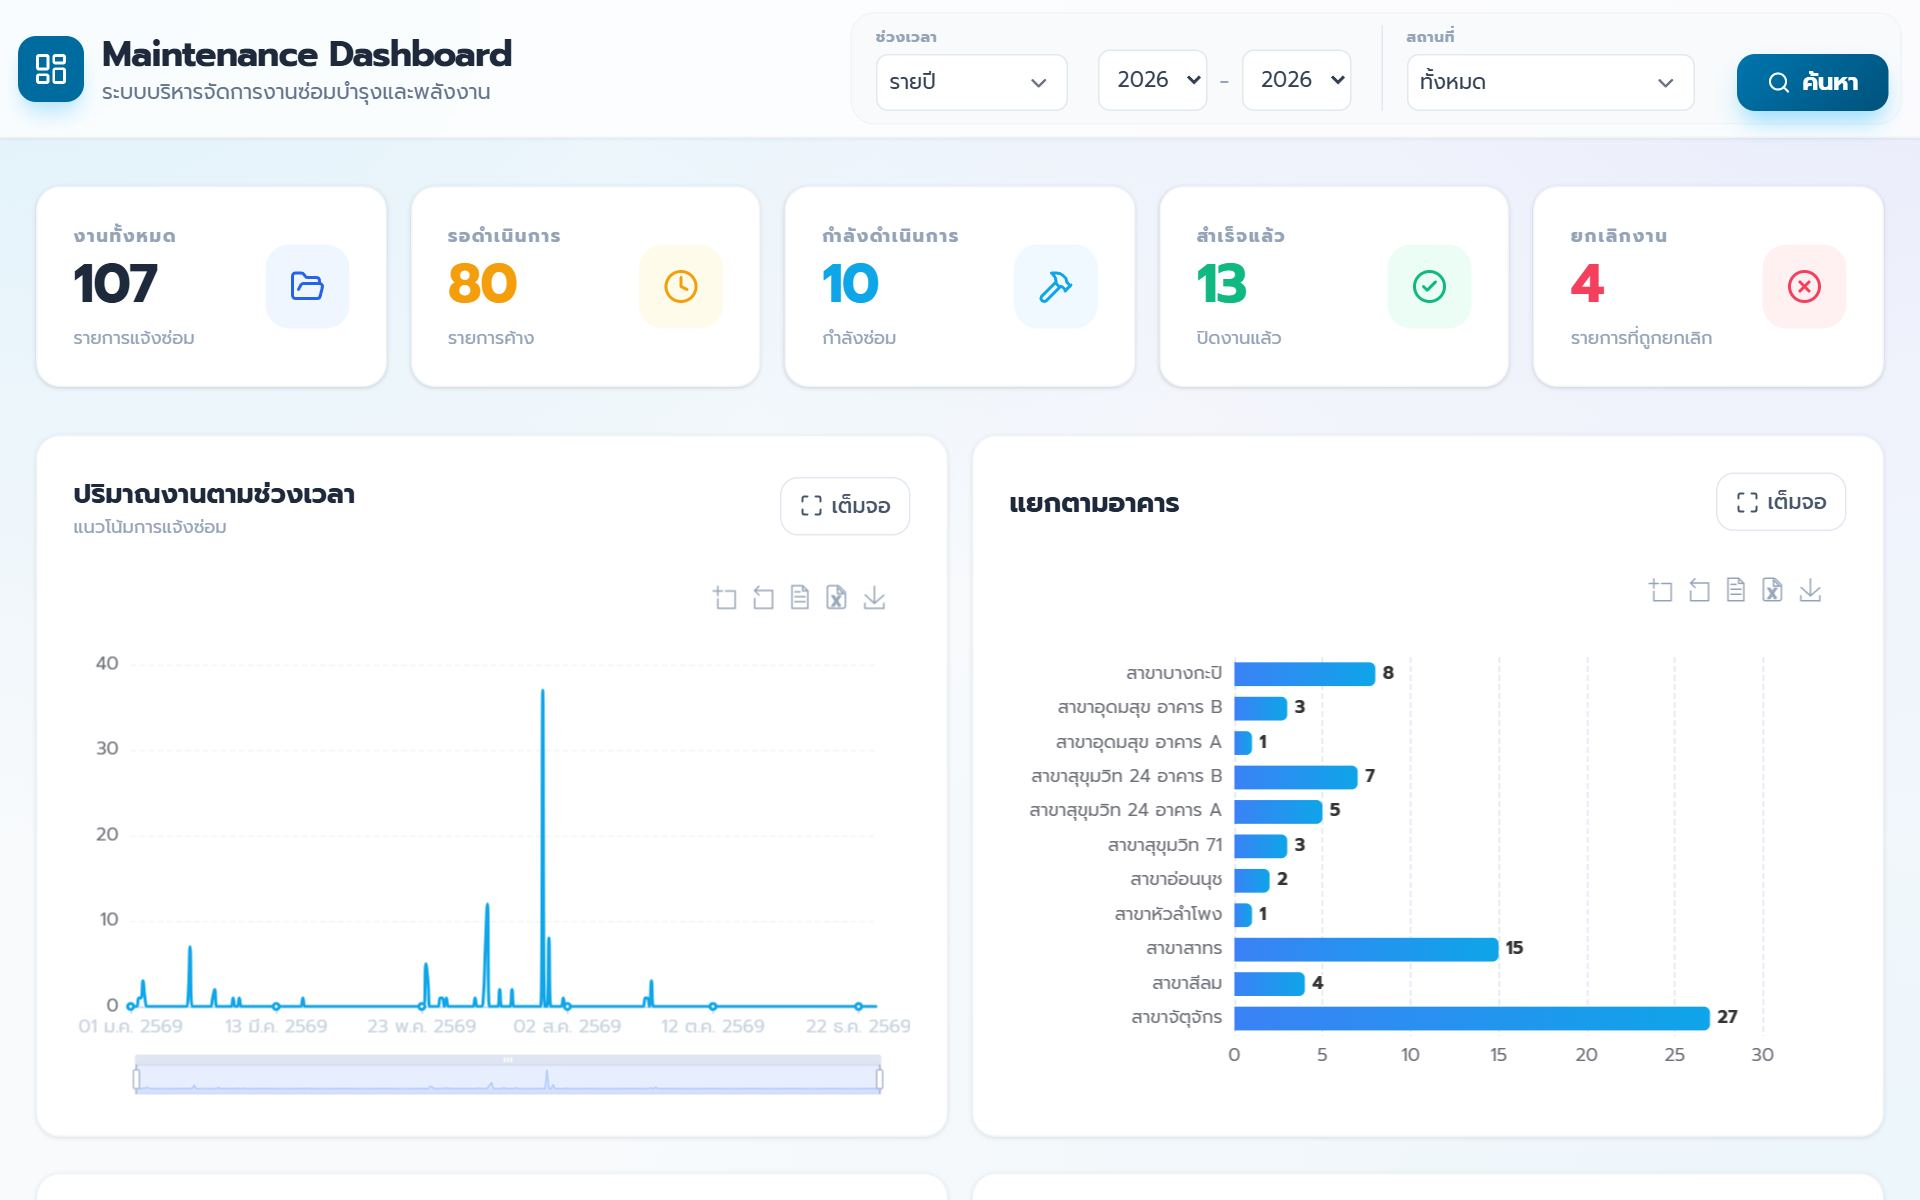
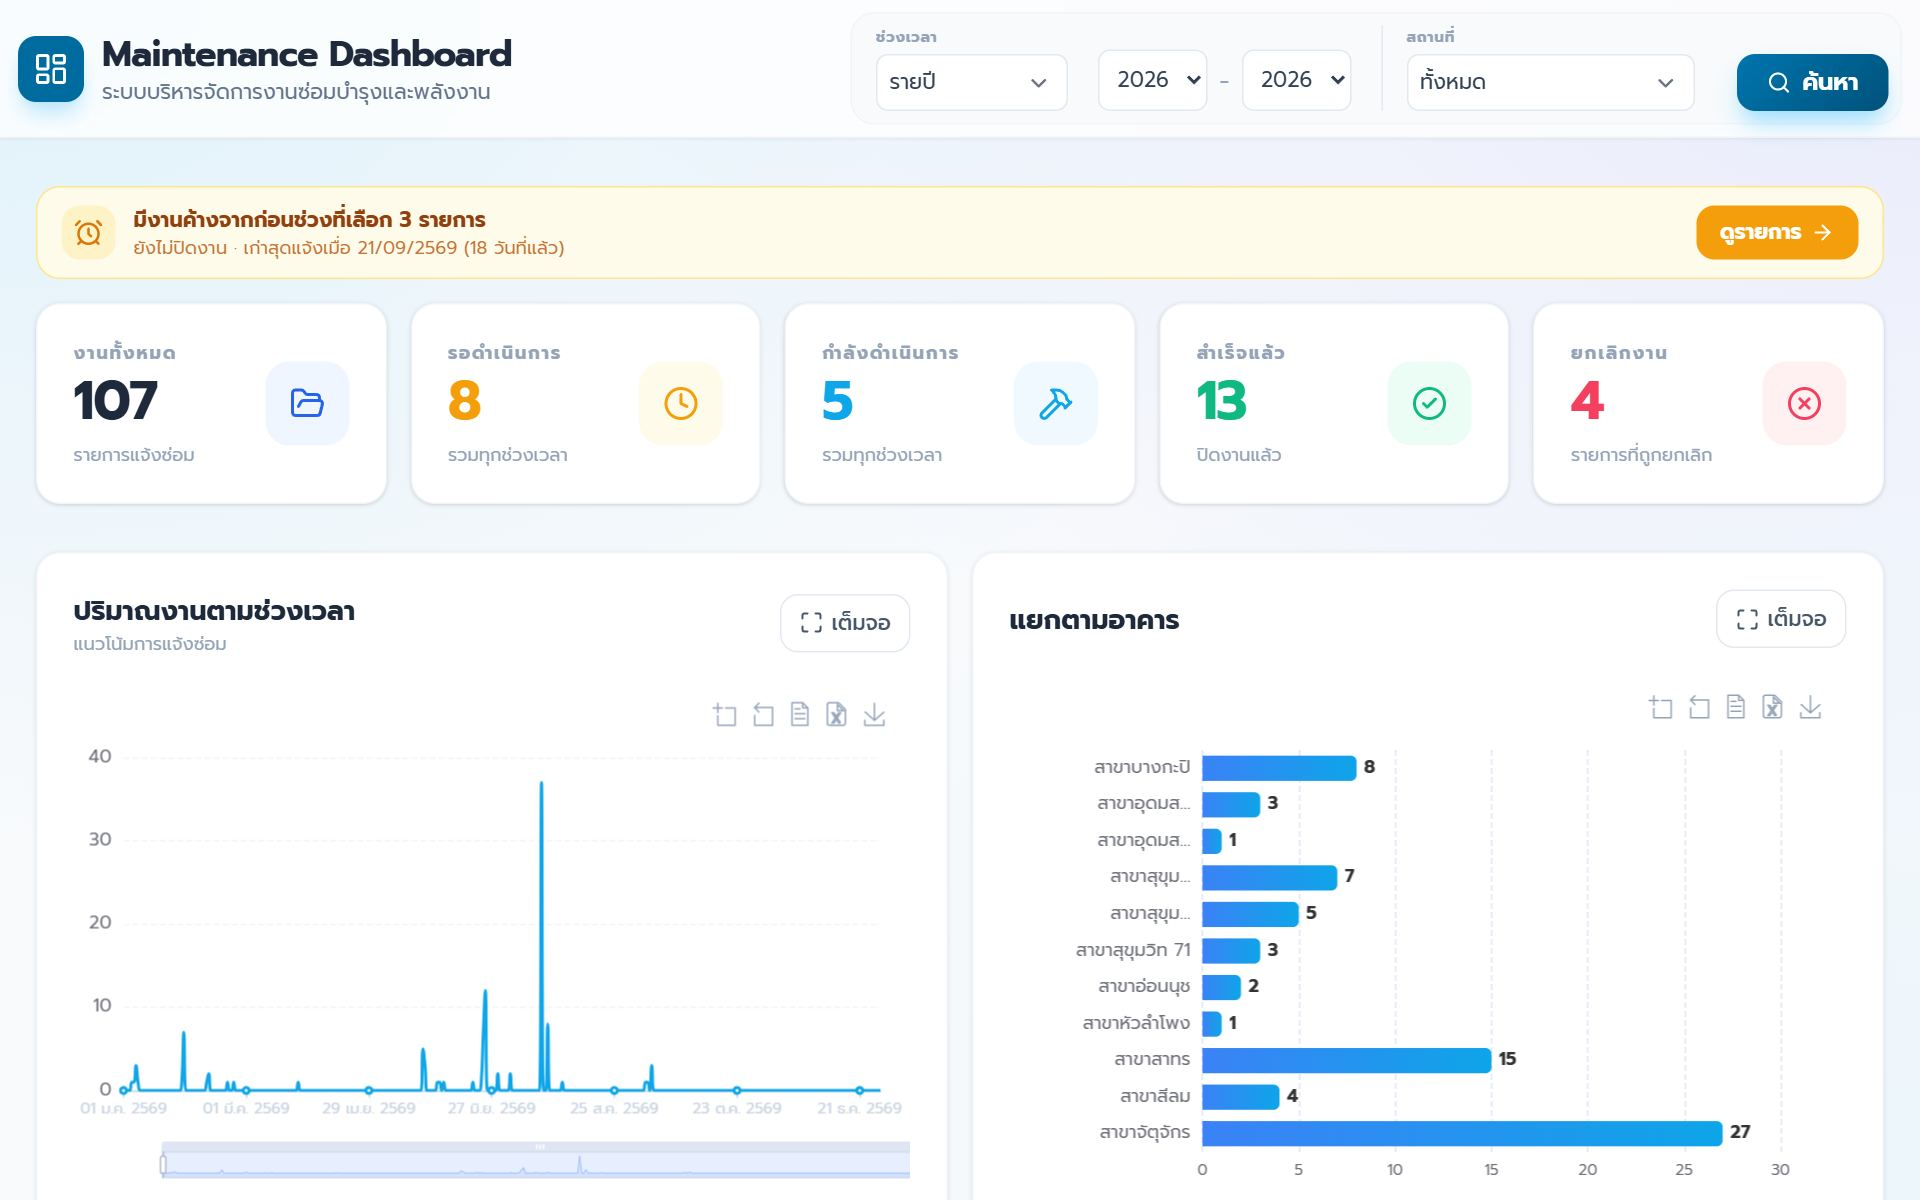
ปรับคู่มือหน้าหลัก (Dashboard)

diff --git a/tutorial.php b/tutorial.php
@@ -254,9 +254,11 @@ const MODULES = [
             { m: 2, t: '<b>ช่วงวันที่</b> — กำหนดวันเริ่มต้นและวันสิ้นสุดของข้อมูล' },
             { m: 3, t: '<b>สถานที่</b> — เลือกอาคาร/สาขา หรือดูทั้งหมด' },
             { m: 4, t: 'กด <span class="kbd">ค้นหา</span> เพื่อแสดงข้อมูลตามตัวเลือก' },
-            { m: 5, t: '<b>การ์ดสรุป</b> — จำนวนงานทั้งหมด รอดำเนินการ กำลังดำเนินการ สำเร็จแล้ว และยกเลิก' },
-            { m: 6, t: '<b>กราฟ</b> — แนวโน้มงานและงานแยกตามอาคาร กด <span class="kbd">เต็มจอ</span> เพื่อดูกราฟขนาดใหญ่' }
-        ] }]
+            { m: 5, t: '<b>แถบเตือนงานค้าง</b> (สีส้ม) — ขึ้นเมื่อมีงานที่แจ้ง<b>ก่อนช่วงวันที่ที่เลือก</b>แต่ยังไม่ปิด เช่น แจ้ง 31 ม.ค. แต่วันนี้ดูเดือน ก.พ. บอกจำนวนและวันที่ของงานที่ค้างนานที่สุด กด <span class="kbd">ดูรายการ</span> เพื่อเปิดงานค้างทั้งหมด' },
+            { m: 6, t: '<b>การ์ดสรุป</b> — งานทั้งหมด สำเร็จแล้ว และยกเลิก นับตามช่วงวันที่ที่เลือก ส่วน <b>รอดำเนินการ / กำลังดำเนินการ</b> นับงานที่ยังไม่ปิด<b>ทั้งหมด</b> ไม่ว่าจะแจ้งเมื่อไหร่ — กดการ์ดเพื่อเปิดรายการ' },
+            { m: 7, t: '<b>กราฟ</b> — แนวโน้มงานและงานแยกตามอาคาร กด <span class="kbd">เต็มจอ</span> เพื่อดูกราฟขนาดใหญ่' }
+        ] }],
+        tips: ['ขึ้นเดือนใหม่แล้วงานเดือนก่อนที่ยังไม่ปิดจะ<b>ไม่หายไป</b> — ยังนับอยู่ในการ์ดรอดำเนินการ / กำลังดำเนินการ และแสดงในแถบเตือนสีส้มจนกว่าจะปิดงาน']
     },
     {
         id: 'notifications', title: 'การแจ้งเตือน', perm: null, href: 'notifications.php',
@@ -329,7 +331,7 @@ const MODULES = [
             ['<span class="inline-block w-2.5 h-2.5 rounded-full bg-emerald-500 mr-1.5"></span>ประเมินแล้ว', 'ผู้แจ้งประเมินความพึงพอใจแล้ว'],
             ['<span class="inline-block w-2.5 h-2.5 rounded-full bg-rose-500 mr-1.5"></span>ยกเลิก', 'ใบงานถูกยกเลิก']
         ] },
-        tips: ['กดปุ่มกรอง ▾ บนหัวคอลัมน์ เพื่อกรองเฉพาะอาคาร ชั้น หรือสถานะที่ต้องการ']
+        tips: ['กดปุ่มกรอง ▾ บนหัวคอลัมน์ เพื่อกรองเฉพาะอาคาร ชั้น หรือสถานะที่ต้องการ', 'บนมือถือ เลือกชิป <b>งานค้าง</b> ด้านบนรายการ เพื่อดูเฉพาะงานที่รอดำเนินการและกำลังดำเนินการ']
     },
     {
         id: 'repair_job', title: 'รับงานและปิดงานซ่อม (สำหรับช่าง)', perm: 'repair_data', href: 'maintenance_info.php',
@@ -740,6 +742,7 @@ const FAQ = [
     ['ทั่วไป', 'ใช้บนมือถือได้ไหม', 'ได้ทุกเมนู หน้าจอปรับตามขนาดอัตโนมัติ และเข้าสู่ระบบด้วยการสแกน QR Code ได้', 'qr_login'],
     ['แจ้งซ่อม', 'แนบรูปหรือวิดีโอไม่ได้', 'รูปแนบได้สูงสุด 5 รูป (JPG / PNG / WEBP) วิดีโอ 1 คลิป ไม่เกิน 30 วินาที — คลิปยาวให้ตัดช่วงก่อนส่ง', 'repair'],
     ['แจ้งซ่อม', 'แจ้งซ่อมแล้ว จะรู้ได้อย่างไรว่าช่างรับงานแล้ว', 'ดูสถานะในเมนูข้อมูลแจ้งซ่อม: รอดำเนินการ → กำลังดำเนินการ (ช่างรับงานแล้ว) → เสร็จสิ้น', 'repair_list'],
+    ['แจ้งซ่อม', 'ขึ้นเดือนใหม่แล้ว งานเดือนก่อนที่ยังไม่เสร็จหายไปไหม', 'ไม่หาย — การ์ดรอดำเนินการ / กำลังดำเนินการในหน้าหลักนับงานค้างทั้งหมด และมีแถบเตือนสีส้มบอกงานที่ค้างจากก่อนช่วงที่เลือก กด "ดูรายการ" เพื่อเปิดทั้งหมด (บนมือถือเลือกชิป "งานค้าง")', 'dashboard'],
     ['แจ้งซ่อม', 'แจ้งซ่อมผิด ต้องการยกเลิก', 'กดปุ่ม ✕ ยกเลิกใบงาน ในเมนูข้อมูลแจ้งซ่อม (ยกเลิกได้เฉพาะงานที่ยังไม่ปิด)', 'repair_list'],
     ['แจ้งซ่อม', 'ส่งแบบประเมินไม่ได้', 'ต้องปิดงานให้เป็นสถานะเสร็จสิ้นก่อน จึงจะส่งแบบประเมินได้', 'repair_eval'],
     ['แจ้งซ่อม', 'สแกน QR ที่ตัวเครื่องแล้วไปหน้าไหน', 'เปิดหน้าประวัติเครื่องจักร ดูข้อมูลเครื่องและประวัติซ่อม แล้วกด "แจ้งซ่อมเครื่องจักรนี้" ได้เลย', 'qr'],

diff --git a/dashboard.php b/dashboard.php
@@ -307,7 +307,7 @@ include "config_ctrl/checksession.php";
                     <div>
                         <p class="text-xs font-bold text-slate-400 uppercase tracking-widest mb-1">รอดำเนินการ</p>
                         <h3 id="stat-pending" class="text-4xl font-black text-amber-500 tracking-tight">0</h3>
-                        <p id="stat-pending-note" class="text-xs text-slate-400 mt-2">ค้างทั้งหมด · ไม่จำกัดช่วงเวลา</p>
+                        <p id="stat-pending-note" class="text-xs text-slate-400 mt-2">รวมทุกช่วงเวลา</p>
                     </div>
                     <div class="kpi-icon-wrapper bg-amber-50 text-amber-500 group-hover:bg-amber-500 group-hover:text-white transition-colors duration-300">
                         <i data-lucide="clock" class="w-6 h-6"></i>
@@ -321,7 +321,7 @@ include "config_ctrl/checksession.php";
                     <div>
                         <p class="text-xs font-bold text-slate-400 uppercase tracking-widest mb-1">กำลังดำเนินการ</p>
                         <h3 id="stat-doing" class="text-4xl font-black text-sky-500 tracking-tight">0</h3>
-                        <p class="text-xs text-slate-400 mt-2">ทั้งหมด · ไม่จำกัดช่วงเวลา</p>
+                        <p class="text-xs text-slate-400 mt-2">รวมทุกช่วงเวลา</p>
                     </div>
                     <div class="kpi-icon-wrapper bg-sky-50 text-sky-500 group-hover:bg-sky-500 group-hover:text-white transition-colors duration-300">
                         <i data-lucide="hammer" class="w-6 h-6"></i>
